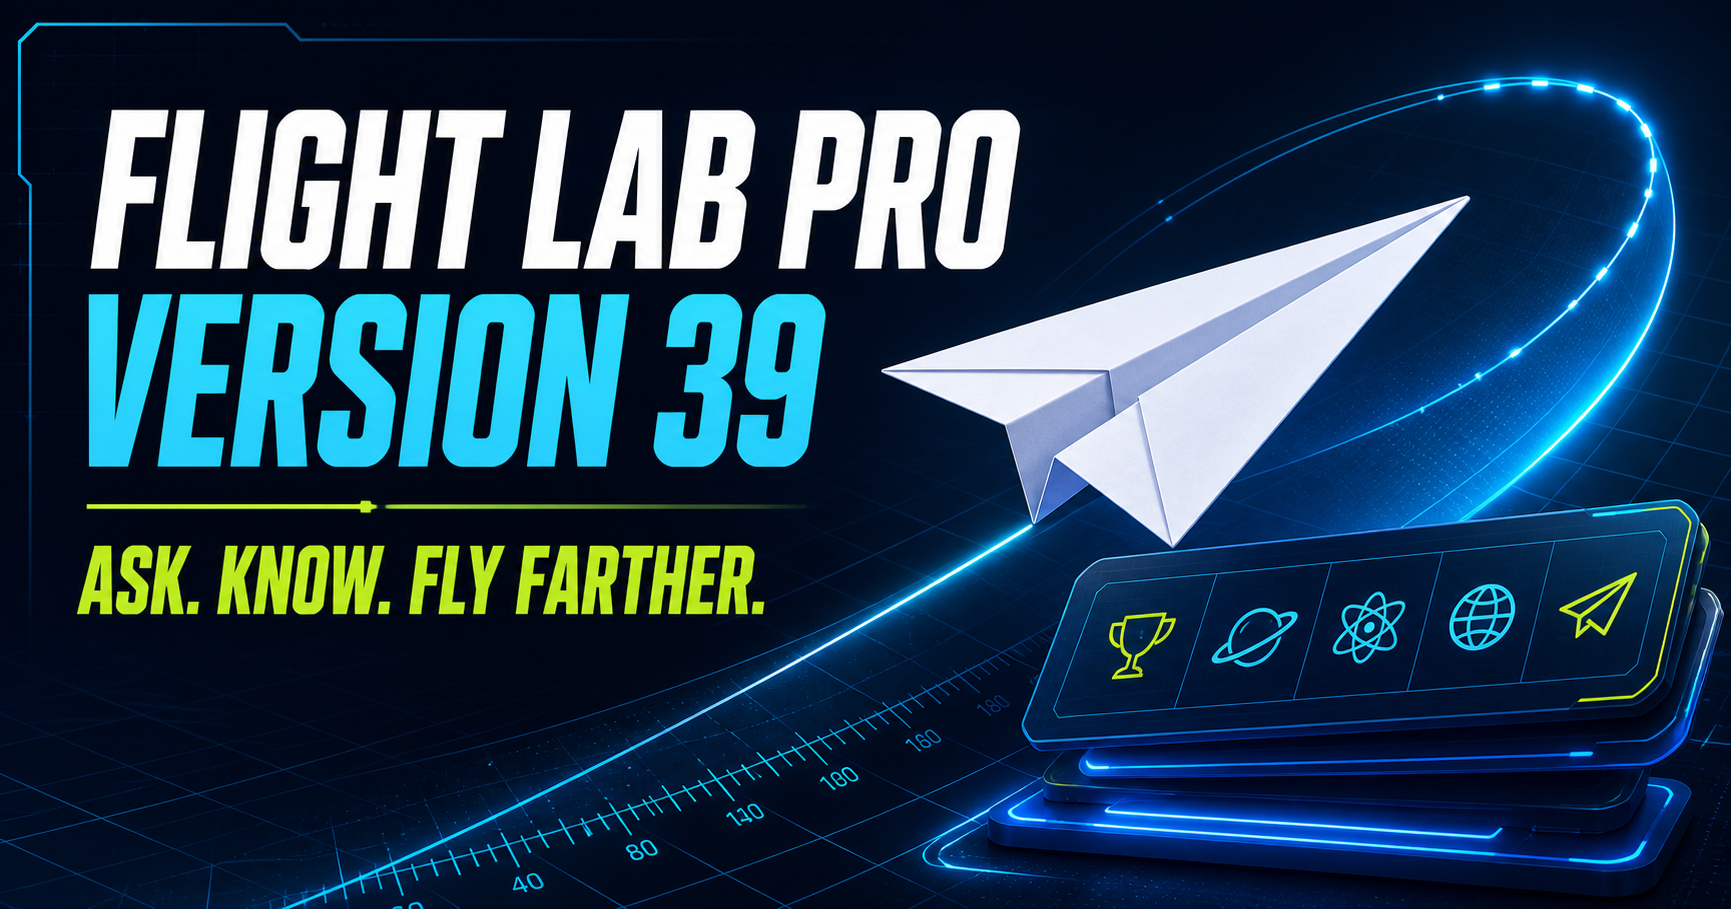
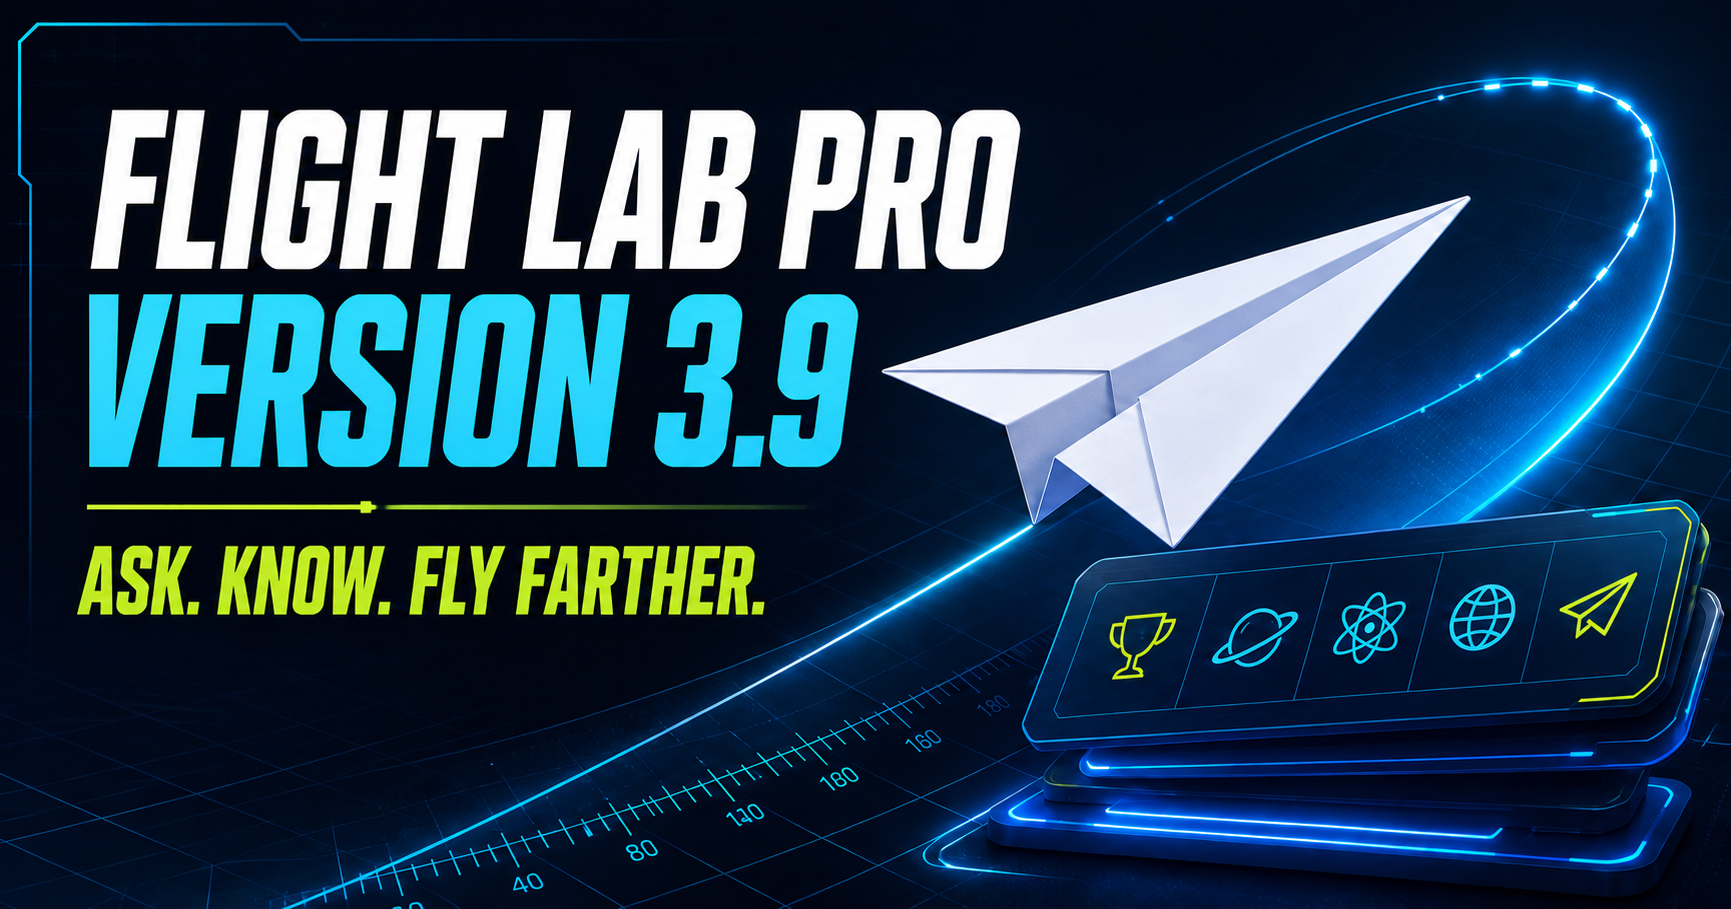
Relabel Flight Lab AI versions

diff --git a/app/knowledge-base.ts b/app/knowledge-base.ts
@@ -110,7 +110,7 @@ function internalAnswer(answer: string): BuiltInKnowledgeAnswer {
   return {
     answer,
     source: "flight-lab://knowledge/v39",
-    sourceName: "Flight Lab Pro v39 knowledge pack",
+    sourceName: "Flight Lab Pro 3.9 knowledge pack",
     verifiedOn: VERIFIED_ON,
   };
 }
@@ -170,15 +170,15 @@ export function findBuiltInAnswer(question: string): BuiltInKnowledgeAnswer | nu
   if (!normalized) return null;
 
   if (/\b(?:who are you|what are you|what(?:'s| is) your name|tell me your name|who am i talking to)\b/.test(normalized)) {
-    return internalAnswer("I’m Flight Lab Coach, the assistant inside Flight Lab Pro. You can call me Flight Lab Coach. Version 39 can chat, answer its saved knowledge without searching, help with paper-airplane experiments, and use live search only when you ask for current information.");
+    return internalAnswer("I’m Flight Lab Coach, the assistant inside Flight Lab Pro. You can call me Flight Lab Coach. Version 3.9 can chat, answer its saved knowledge without searching, help with paper-airplane experiments, and use live search only when you ask for current information.");
   }
 
-  if (/\b(?:what (?:version|model) are you|which (?:version|model)|are you version 39)\b/.test(normalized)) {
-    return internalAnswer("You’re talking to Flight Lab Coach version 39. Use the settings button beside Send to switch between v38 Improved, v39 Knowledge, and v40 Advanced.");
+  if (/\b(?:what (?:version|model) are you|which (?:version|model)|are you version (?:39|3\.9))\b/.test(normalized)) {
+    return internalAnswer("You’re talking to Flight Lab Coach version 3.9. Use the settings button beside Send to switch between 3.8 Improved, 3.9 Knowledge, and 4.0 Advanced.");
   }
 
   if (/\b(?:what can you do|how can you help|what do you know|tell me about yourself)\b/.test(normalized)) {
-    return internalAnswer("I’m Flight Lab Coach v39. I can answer thousands of recognized question phrasings from my built-in knowledge pack, chat normally, do basic calculations, explain science and aviation, answer saved world-record and reference questions, and coach your paper-airplane tests. For changing facts I automatically decide when current information should be checked.");
+    return internalAnswer("I’m Flight Lab Coach 3.9. I can answer thousands of recognized question phrasings from my built-in knowledge pack, chat normally, do basic calculations, explain science and aviation, answer saved world-record and reference questions, and coach your paper-airplane tests. For changing facts I automatically decide when current information should be checked.");
   }
 
   const paperRecord = paperAircraftRecord(normalized);
@@ -227,9 +227,9 @@ export function findBuiltInAnswer(question: string): BuiltInKnowledgeAnswer | nu
 
   if (/how many (?:built in|saved|programmed) (?:answers|facts)|what do you know offline/.test(normalized)) {
     return {
-      answer: `Flight Lab Pro v39 has ${BUILT_IN_ANSWER_COUNT} curated answer paths recognizing at least ${BUILT_IN_QUESTION_VARIATION_COUNT.toLocaleString("en-US")} tested question variations, plus flexible word order. They cover identity, conversation, world records, aviation, space, geography, animals, science, country capitals, and chemical symbols. I use these before considering a live search.`,
+      answer: `Flight Lab Pro 3.9 has ${BUILT_IN_ANSWER_COUNT} curated answer paths recognizing at least ${BUILT_IN_QUESTION_VARIATION_COUNT.toLocaleString("en-US")} tested question variations, plus flexible word order. They cover identity, conversation, world records, aviation, space, geography, animals, science, country capitals, and chemical symbols. I use these before considering a live search.`,
       source: "flight-lab://knowledge/v39",
-      sourceName: "Flight Lab Pro v39 knowledge pack",
+      sourceName: "Flight Lab Pro 3.9 knowledge pack",
       verifiedOn: VERIFIED_ON,
     };
   }

diff --git a/app/pro/pro-dashboard.tsx b/app/pro/pro-dashboard.tsx
@@ -7,7 +7,7 @@ import ProCoachChat from "./pro-coach-chat";
 import { publishProAiContext, readProAiContext, type CoachTestMemory } from "./pro-ai-context";
 import ProVideoLab from "./pro-video-lab";
 import { AnalysisLoader } from "./pro-ui";
-import { COACH_MODEL_OPTIONS, useModelVersion } from "./model-version";
+import { COACH_MODEL_NUMBER, COACH_MODEL_OPTIONS, useModelVersion } from "./model-version";
 import ProViewCounter from "./pro-view-counter";
 
 type PlaneKind = "dart" | "glider" | "stunt" | "custom";
@@ -562,7 +562,7 @@ function ProPlaneCoach() {
           <div className="pro-scan-progress"><span>{capturedViews.length}/{requiredViews.length} views captured</span><i><b style={{ width: `${Math.min(100, capturedViews.length / requiredViews.length * 100)}%` }} /></i><small>{requiredViews.find((view) => !scanPhotos[view.id])?.instruction ?? "All required views are ready"}</small></div>
           <div className="pro-scan-view-grid">{requiredViews.map((view) => <button type="button" key={view.id} className={scanPhotos[view.id] ? "captured" : ""} onClick={() => requestView(view.id)}>{scanPhotos[view.id] ? <img src={scanPhotos[view.id]} alt={`${view.label} scan captured`} /> : <span>{view.id === "top" ? "CAM" : "＋"}</span>}<b>{view.label}</b><small>{scanPhotos[view.id] ? "Retake" : view.instruction}</small></button>)}</div>
         </div>
-        {useGemini ? <p>v40 sends your {scanMode === "quick" ? "top photo" : "six photos"} to cloud AI for visual analysis.</p> : scanMode !== "quick" ? <label className="pro-cloud-vision-choice"><input type="checkbox" checked={cloudVisionEnabled} onChange={(event) => setCloudVisionEnabled(event.target.checked)} /><span><b>Deep visual inspection</b><small>When on, cloud AI compares all six photos for nose alignment, uneven wing angles, fold quality, underside folds, and tail-edge differences. When off, all analysis stays on this device.</small></span></label> : null}
+        {useGemini ? <p>4.0 sends your {scanMode === "quick" ? "top photo" : "six photos"} to cloud AI for visual analysis.</p> : scanMode !== "quick" ? <label className="pro-cloud-vision-choice"><input type="checkbox" checked={cloudVisionEnabled} onChange={(event) => setCloudVisionEnabled(event.target.checked)} /><span><b>Deep visual inspection</b><small>When on, cloud AI compares all six photos for nose alignment, uneven wing angles, fold quality, underside folds, and tail-edge differences. When off, all analysis stays on this device.</small></span></label> : null}
         <div className="pro-form-grid">
           <label>Plane style<select value={planeKind} onChange={(event) => setPlaneKind(event.target.value as PlaneKind)}><option value="dart">Dart</option><option value="glider">Glider</option><option value="stunt">Stunt</option><option value="custom">Custom</option></select></label>
           <label>Last flight<select value={behavior} onChange={(event) => { setBehavior(event.target.value as FlightBehavior); setReport(null); }}><option value="straight">Mostly straight</option><option value="dives">Dived</option><option value="stalls">Stalled</option><option value="turns">Turned left or right</option><option value="wobbles">Wobbled</option><option value="spirals">Spiraled</option></select></label>
@@ -856,7 +856,7 @@ export default function ProDashboard({
 
       <section className="pro-dashboard-hero" id="pro-top">
         <div className="pro-hero-copy">
-          <div className="pro-access-pill"><i /><span>{sharedPass ? "Pro Pass active" : "Lifetime Pro active"} · {selectedModel}</span></div>
+          <div className="pro-access-pill"><i /><span>{sharedPass ? "Pro Pass active" : "Lifetime Pro active"} · {COACH_MODEL_NUMBER[selectedModel]}</span></div>
           {!sharedPass && <ProViewCounter />}
           <p>Flight intelligence for paper aircraft</p>
           <h1>See what your<br />plane is <em>really doing.</em></h1>

diff --git a/app/pro/pro-coach-chat.tsx b/app/pro/pro-coach-chat.tsx
@@ -28,11 +28,11 @@ type CoachSearchMode = "auto" | "search" | "answer";
 type CoachThinkingMode = "auto" | "fast" | "normal" | "hard";
 
 const COACH_LEVEL_OPTIONS: Array<{ model: "v39" | "v40"; mode: CoachThinkingMode; label: string; detail: string }> = [
-  { model: "v39", mode: "auto", label: "v39", detail: "Built-in knowledge" },
-  { model: "v40", mode: "fast", label: "v40 Fast", detail: "Quick replies" },
-  { model: "v40", mode: "auto", label: "v40 Auto", detail: "Chooses for you" },
-  { model: "v40", mode: "normal", label: "v40 Normal", detail: "Balanced thinking" },
-  { model: "v40", mode: "hard", label: "v40 Think hard", detail: "Deepest reasoning" },
+  { model: "v39", mode: "auto", label: "3.9", detail: "Built-in knowledge" },
+  { model: "v40", mode: "fast", label: "4.0 Fast", detail: "Quick replies" },
+  { model: "v40", mode: "auto", label: "4.0 Auto", detail: "Chooses for you" },
+  { model: "v40", mode: "normal", label: "4.0 Normal", detail: "Balanced thinking" },
+  { model: "v40", mode: "hard", label: "4.0 Think hard", detail: "Deepest reasoning" },
 ];
 
 
@@ -622,7 +622,7 @@ export default function ProCoachChat() {
       ? "\n\nLive multi-source search is not connected, so this answer comes from the coach’s built-in knowledge and may not reflect a recent change."
       : "";
     const finalReply = trustedLinkReply ?? cloudReply?.text ?? (coachModel === "v40"
-      ? "Advanced AI could not answer this request. Please try again, or switch to v39 Knowledge for built-in help."
+      ? "Advanced AI could not answer this request. Please try again, or switch to 3.9 Knowledge for built-in help."
       : resolvedKnowledge ? `${resolvedKnowledge.answer}\n\nBuilt-in source: ${resolvedKnowledge.sourceName}\n${resolvedKnowledge.source}${resolvedKnowledge.verifiedOn ? `\nVerified: ${resolvedKnowledge.verifiedOn}` : ""}` : `${fallbackReply}${searchNote}`);
     const source: ChatMessage["source"] = trustedLinkReply ? "links" : cloudReply?.source ?? (coachModel !== "v40" && resolvedKnowledge ? "built-in" : "device");
     if (cloudReply?.source === "error" && cloudReply.retryable) setRetryQuestion(clean);
@@ -676,7 +676,7 @@ export default function ProCoachChat() {
           <div><span><i /> Flight Lab Coach</span><b>{COACH_LEVEL_OPTIONS[coachLevel].label} · {status}</b></div>
           <button type="button" onClick={() => setOpen(false)} aria-label="Close Flight Lab Coach">×</button>
         </header>
-        {!hasAnalysis && <p className="pro-coach-context">{coachModel === "v40" ? "You can chat normally—no upload required. Every v40 reply uses Advanced AI." : "You can chat normally—no upload required. v39 may use Flight Lab’s built-in knowledge."}</p>}
+        {!hasAnalysis && <p className="pro-coach-context">{coachModel === "v40" ? "You can chat normally—no upload required. Every 4.0 reply uses Advanced AI." : "You can chat normally—no upload required. 3.9 may use Flight Lab’s built-in knowledge."}</p>}
         {retryQuestion && <button className="coach-controls-toggle" type="button" disabled={sending} onClick={() => askCoach(retryQuestion)}>Try again</button>}
         <div className="pro-coach-messages" aria-live="polite">
           {messages.map((message, index) => <div className={message.role} key={message.id ?? `${message.role}-${index}`}>

diff --git a/app/pro/pro-video-lab.tsx b/app/pro/pro-video-lab.tsx
@@ -779,7 +779,7 @@ export default function ProVideoLab({ displayName }: { displayName: string }) {
 
       {analyzing && <AnalysisLoader progress={progress} label={stage} />}
 
-      {inspection && <section className="pro-video-ai-review compact" aria-live="polite"><span>v40 Advanced · Quick review</span><h3>{inspection.canReview ? inspection.summary : "More visual evidence needed"}</h3><ul>{inspection.observations.slice(0, 2).map((item) => <li key={item}>{item}</li>)}</ul><p><b>Release:</b> {inspection.releaseStrength}{inspection.releaseStrength !== "uncertain" ? ` · ${Math.round(inspection.releaseConfidence)}% confidence` : ""} <b>Next:</b> {inspection.nextTest}</p>{inspection.uncertainties.length > 0 && <small>Uncertain: {inspection.uncertainties.slice(0, 1).join(" ")}</small>}</section>}
+      {inspection && <section className="pro-video-ai-review compact" aria-live="polite"><span>4.0 Advanced · Quick review</span><h3>{inspection.canReview ? inspection.summary : "More visual evidence needed"}</h3><ul>{inspection.observations.slice(0, 2).map((item) => <li key={item}>{item}</li>)}</ul><p><b>Release:</b> {inspection.releaseStrength}{inspection.releaseStrength !== "uncertain" ? ` · ${Math.round(inspection.releaseConfidence)}% confidence` : ""} <b>Next:</b> {inspection.nextTest}</p>{inspection.uncertainties.length > 0 && <small>Uncertain: {inspection.uncertainties.slice(0, 1).join(" ")}</small>}</section>}
 
       {report && videoUrl && <div className="pro-video-report" aria-live="polite">
         <div className="pro-report-heading"><div><span>Analysis complete</span><h3>{report.profile}</h3></div><div><b>{report.confidence}%</b><small>{trackQuality}</small></div></div>

diff --git a/app/layout.tsx b/app/layout.tsx
@@ -9,7 +9,7 @@ export async function generateMetadata(): Promise<Metadata> {
   const protocol = requestHeaders.get("x-forwarded-proto") ?? (host.startsWith("localhost") ? "http" : "https");
   const origin = `${protocol}://${host}`;
   const title = "Flight Lab — Throw. Measure. Improve.";
-  const description = "Flight Lab Pro v39 measures paper-airplane flights, analyzes designs, and adds a built-in knowledge-first AI coach that can answer common facts without searching the web.";
+  const description = "Flight Lab Pro 3.9 measures paper-airplane flights, analyzes designs, and adds a built-in knowledge-first AI coach that can answer common facts without searching the web.";
 
   return {
     metadataBase: new URL(origin),
@@ -31,7 +31,7 @@ export async function generateMetadata(): Promise<Metadata> {
       description,
       type: "website",
       url: origin,
-      images: [{ url: `${origin}/og-v39.png`, width: 1731, height: 909, alt: "Flight Lab Pro version 39 knowledge-first coach and paper-airplane flight path" }],
+      images: [{ url: `${origin}/og-v39.png`, width: 1731, height: 909, alt: "Flight Lab Pro version 3.9 knowledge-first coach and paper-airplane flight path" }],
     },
     twitter: {
       card: "summary_large_image",

diff --git a/app/flight-lab-app.tsx b/app/flight-lab-app.tsx
@@ -730,9 +730,9 @@ export default function FlightLabApp({
 
       <section className="pro-preview" id="pro">
         <div className="pro-copy">
-          <p className="pro-kicker">Flight Lab Pro · Version 39</p>
+          <p className="pro-kicker">Flight Lab Pro · Version 3.9</p>
           <h2>See the whole flight,<br /><em>not just the landing.</em></h2>
-          <p>Record a throw for traced flight paths, airtime, curves, stall and dive detection—then ask the v39 Coach questions using built-in knowledge before any live search.</p>
+          <p>Record a throw for traced flight paths, airtime, curves, stall and dive detection—then ask the 3.9 Coach questions using built-in knowledge before any live search.</p>
           <button className="pro-primary" type="button" onClick={openProAccess}>{sharedProPass ? "Open Pro tools" : ownerHasPro ? "Open Flight Lab Pro" : "Upgrade to Pro"}</button>
           <small>{sharedProPass ? "This Pro Pass includes every premium analyzer—no sign-in needed." : ownerHasPro ? `Pro is active for ${proAccess.displayName}.` : "Unlock advanced tracking, calibrated measurement, and deeper flight analysis."}</small>
         </div>

diff --git a/app/pro/model-version.ts b/app/pro/model-version.ts
@@ -3,10 +3,15 @@
 import { useEffect, useState } from "react";
 
 export type CoachModelVersion = "v38" | "v39" | "v40";
+export const COACH_MODEL_NUMBER: Record<CoachModelVersion, string> = {
+  v38: "3.8",
+  v39: "3.9",
+  v40: "4.0",
+};
 export const COACH_MODEL_OPTIONS: Array<{ model: CoachModelVersion; label: string; detail: string }> = [
-  { model: "v40", label: "v40 Advanced", detail: "Photos, video + Coach" },
-  { model: "v39", label: "v39 Knowledge", detail: "Built-in facts first" },
-  { model: "v38", label: "v38 Improved", detail: "Context + memory" },
+  { model: "v40", label: "4.0 Advanced", detail: "Photos, video + Coach" },
+  { model: "v39", label: "3.9 Knowledge", detail: "Built-in facts first" },
+  { model: "v38", label: "3.8 Improved", detail: "Context + memory" },
 ];
 const storageKey = "flight-lab-coach-model";
 const changedEvent = "flight-lab-model-changed";
